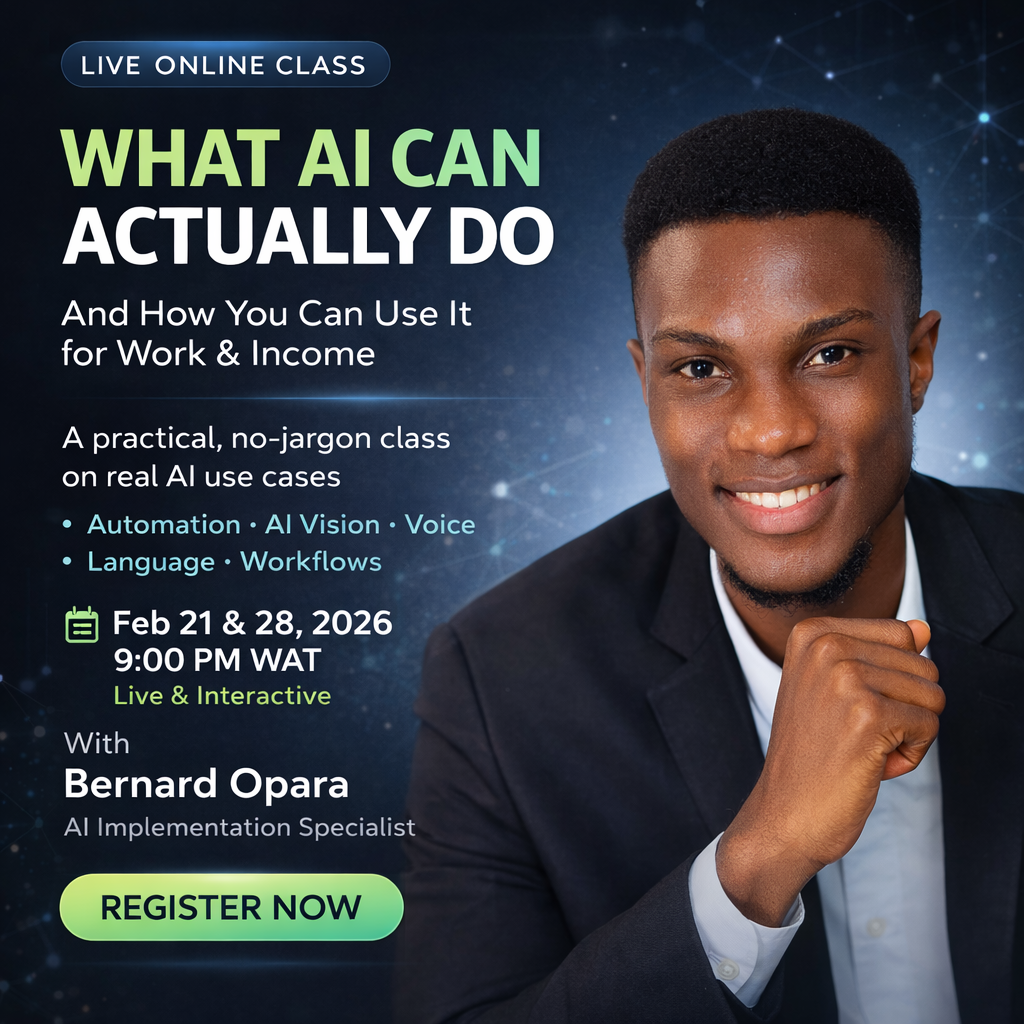
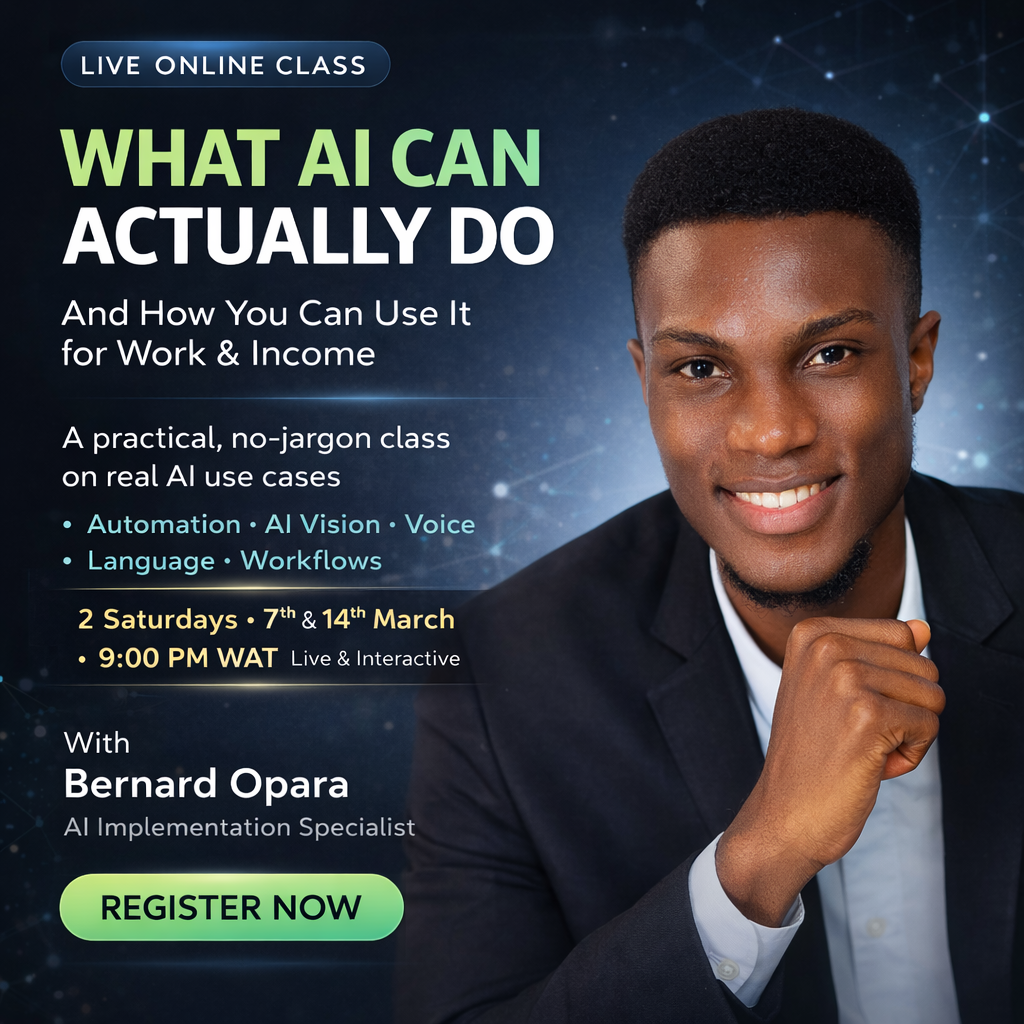
Updated the class date

Changed region(s): [[0.0625, 0.5, 0.4688, 0.6875], [0.0625, 0.7188, 0.125, 0.75]]

diff --git a/index.html b/index.html
@@ -1140,7 +1140,7 @@
                     <div class="format-item">
                         <div class="format-icon">📅</div>
                         <h4>Two Saturdays</h4>
-                        <p>Feb 21 & 28, 2026 • 9:00 PM WAT</p>
+                        <p>7th & 14th March, 2026 • 9:00 PM WAT</p>
                     </div>
                     <div class="format-item">
                         <div class="format-icon">💡</div>
